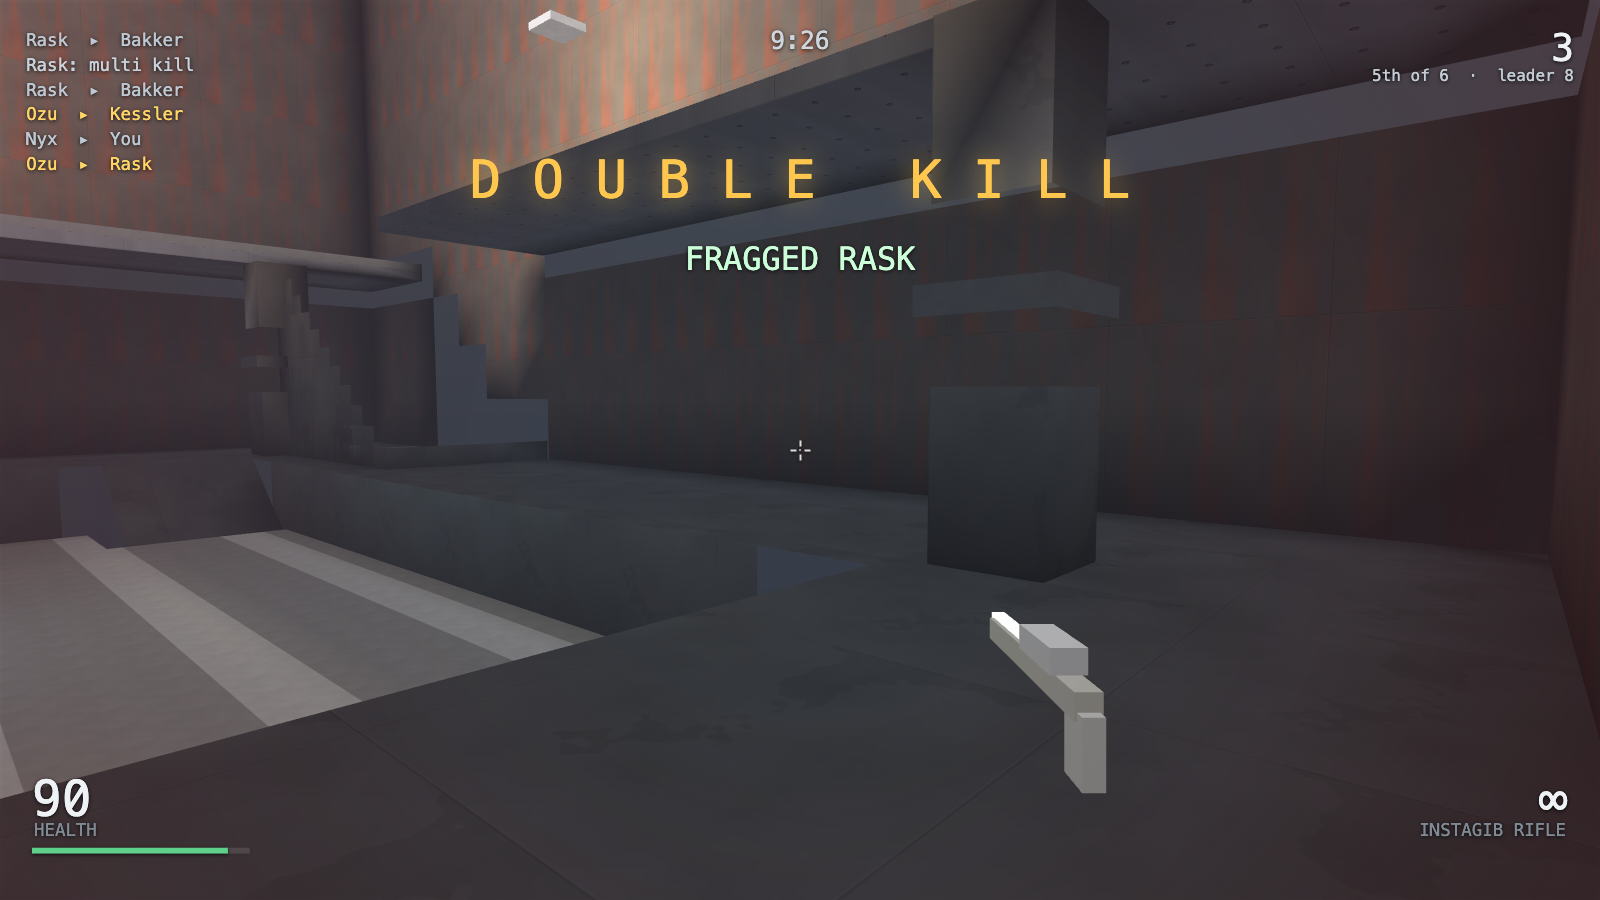
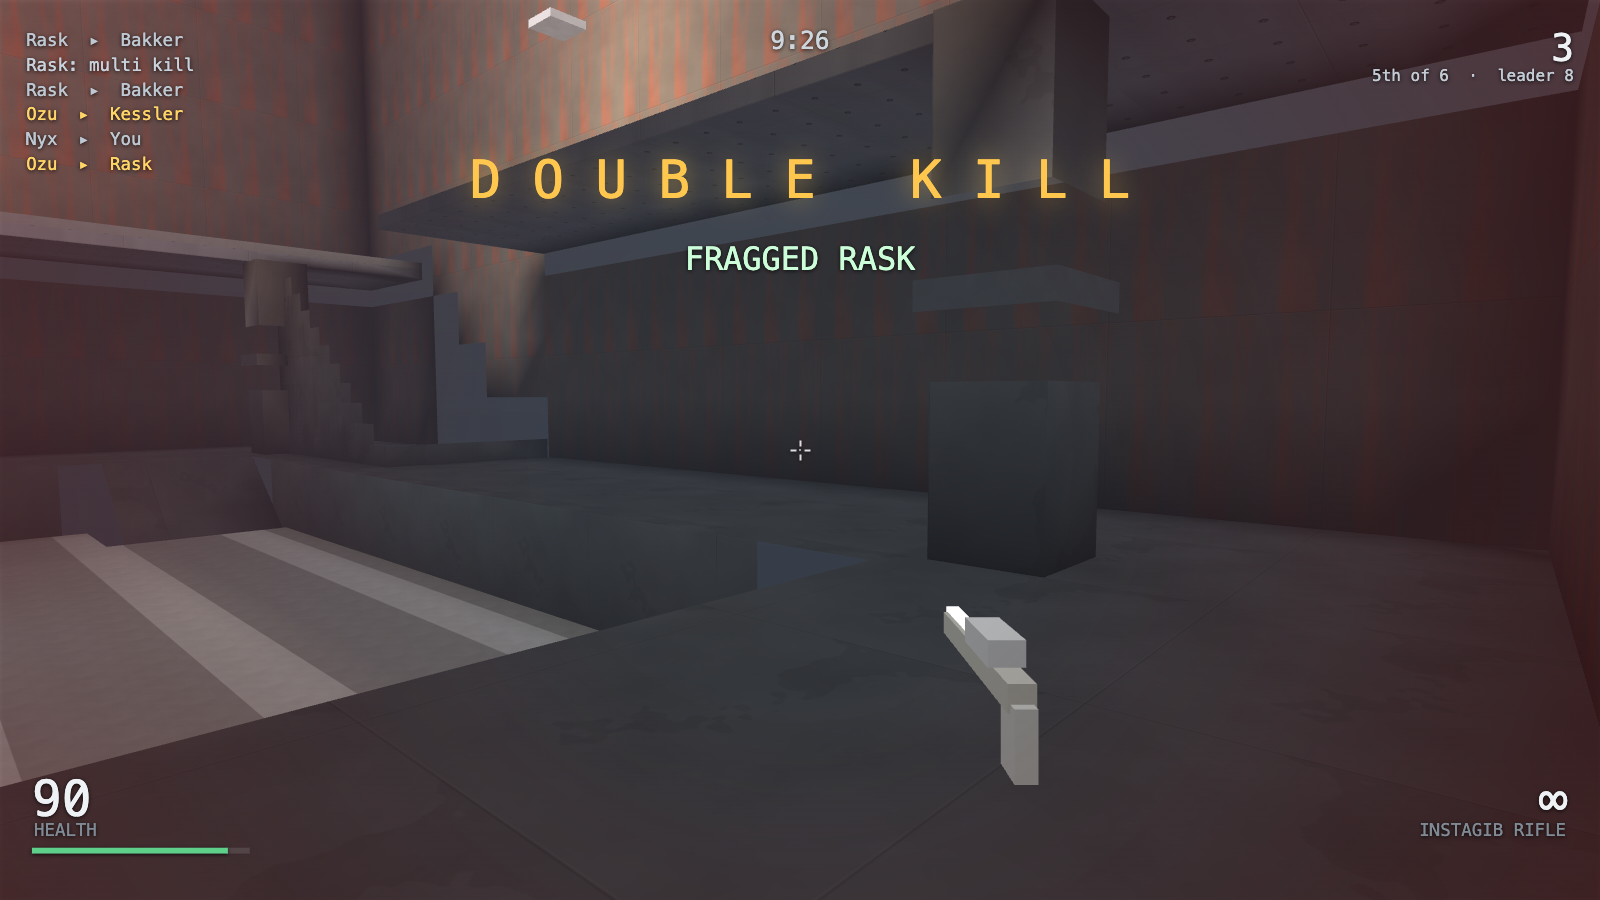
Make the thumb work
Two things were wrong with the look control on a phone, and the first one
was not the sensitivity.

The playing surface had no touch-action, so the first few pixels of every
drag arrived as pointermove and then the browser decided the gesture was
a scroll, took the rest of it and cancelled the pointer. Every swipe was
worth one step of the view and then stopped, which feels precisely like a
control set far too slow. Marking the canvases and the thumb layer
touch-action: none fixes it: a 140 px drag now delivers all of its
movement instead of a seventh of it.

The sensitivity was low as well - a tenth of a degree per pixel, so most
of a phone's width for a quarter turn - and is now 0.38, on the same
setting the mouse uses, so it can be moved either way in the menu.

And both axes are reversed. The thumb holds the scene rather than pushing
a pointer: drag left and the room comes left, which turns you right.
Invert Y still flips the vertical half back.

tools/keytest.js drags a real thumb across a real browser and checks
which way the view went and how far, which is the only way to see either
of these from the outside. Its forward-and-back check now measures the
direction rather than the distance: how far anything gets in eight
hundred milliseconds depends on how fast the browser is drawing.

Claude-Session: https://claude.ai/code/session_01UexxUM9pEdkvdziEXxrMUm

diff --git a/tools/keytest.js b/tools/keytest.js
@@ -8,6 +8,11 @@
 // else here: simtest calls step() with inputs it made up, and netcheck uses a
 // stub for the hands. This is the only test that touches the real chain, and it
 // needs a browser, which is why it is not part of `npm test`.
+//
+// The thumbs get the same treatment. Which way a drag turns the view and how far
+// it turns it are two things you cannot tell from reading the code - the signs
+// pass through three files - and they are the two things somebody holding a
+// phone notices in the first ten seconds.
 
 import { launch, open, sleep } from './browser.js';
 
@@ -50,11 +55,17 @@ async function main() {
     const wentForward = Math.hypot(forward.x - start.x, forward.z - start.z);
     check(`holding forward covers ground (${wentForward.toFixed(1)} m in 0.8 s)`, wentForward > 3);
 
+    // Back is the opposite of forward, and that is what is checked - not how
+    // far it got. How far anything gets in eight hundred milliseconds depends on
+    // how fast the browser is drawing, and under a software renderer that is not
+    // a number worth asserting on.
     await hold('s', 800);
     const back = await probe();
-    const returned = Math.hypot(back.x - start.x, back.z - start.z);
-    check(`and holding back brings you home (${returned.toFixed(1)} m from where you began)`,
-      returned < wentForward * 0.6);
+    const wentBack = Math.hypot(back.x - forward.x, back.z - forward.z);
+    const along = ((forward.x - start.x) * (back.x - forward.x)
+      + (forward.z - start.z) * (back.z - forward.z)) / Math.max(0.01, wentForward * wentBack);
+    check(`and holding back goes the other way (${(Math.acos(Math.max(-1, Math.min(1, along))) * 57.3).toFixed(0)} deg from the way out)`,
+      along < -0.8);
 
     // Sideways, which had better be sideways: the strafe buttons have been the
     // wrong way round in this game once already, and nothing else would notice.
@@ -84,6 +95,7 @@ async function main() {
     await sleep(200);
     const armed = await probe();
     check(`pressing 3 puts the rockets in your hands (weapon ${armed.weapon})`, armed.weapon === 2);
+    await touchCheck(page);
   } finally {
     await page.close();
     chrome.kill();
@@ -94,6 +106,75 @@ async function main() {
     process.exit(1);
   }
   console.log('\nThe keyboard reaches the simulation.');
+}
+
+/**
+ * A thumb on the right half of the screen, dragged.
+ *
+ * Dispatched as real touch events through the browser, so it goes through the
+ * same pointer handlers a phone does. What it is checking is direction and
+ * amount: pulling the scene left turns you right, pulling it down looks up, and
+ * a two centimetre swipe is worth something like a quarter turn.
+ */
+async function touchCheck(page) {
+  await page.send('Emulation.setTouchEmulationEnabled', { enabled: true, maxTouchPoints: 5 });
+  await page.evaluate("window.__touchOn = true; location.search;");
+  // The thumbs are only attached when the game thinks it is on a phone, so the
+  // page is reloaded with the override that says so.
+  await page.send('Page.navigate', {
+    url: `${base}&touch=1`,
+  });
+  if (!await page.ready()) {
+    console.log('   ✗ the page did not come back with the thumbs on');
+    failures++;
+    return;
+  }
+  const size = await page.evaluate('({ w: window.innerWidth, h: window.innerHeight })');
+  const x = size.w * 0.75;
+  const y = size.h * 0.5;
+
+  const drag = async (dx, dy) => {
+    const point = (px, py) => [{ x: px, y: py, radiusX: 8, radiusY: 8, force: 1, id: 1 }];
+    await page.send('Input.dispatchTouchEvent', { type: 'touchStart', touchPoints: point(x, y) });
+    // Slowly, one step per frame or so. A drag dispatched faster than the
+    // browser turns touches into pointer events is a drag that arrives as one
+    // move, and then this measures the sensitivity of a single step.
+    for (let i = 1; i <= 8; i++) {
+      await page.send('Input.dispatchTouchEvent', {
+        type: 'touchMove', touchPoints: point(x + (dx * i) / 8, y + (dy * i) / 8),
+      });
+      await sleep(40);
+    }
+    await page.send('Input.dispatchTouchEvent', { type: 'touchEnd', touchPoints: [] });
+    await sleep(250);
+  };
+
+  const look = async () => page.evaluate(
+    '({ yaw: window.__state.bodies[0].yaw, pitch: window.__state.bodies[0].pitch })');
+  const degrees = (units) => {
+    let d = ((units % 65536) + 65536) % 65536;
+    if (d > 32768) d -= 65536;
+    return (d / 65536) * 360;
+  };
+
+  const before = await look();
+  await drag(140, 0);
+  const afterYaw = await look();
+  const turned = degrees(afterYaw.yaw - before.yaw);
+  // Yaw counts the other way round from the view: turning to the left is yaw
+  // going up. A drag to the right is meant to pull the room right and take you
+  // left with it.
+  // Both halves of this matter. The sign is the convention; the size is whether
+  // the browser let the whole swipe through, and it did not until the playing
+  // surface was given touch-action: none.
+  check(`dragging the thumb right turns the view left (${turned.toFixed(0)} deg over 140 px)`,
+    turned > 35 && turned < 75);
+
+  await drag(0, 90);
+  const afterPitch = await look();
+  const lifted = degrees(afterPitch.pitch - afterYaw.pitch);
+  check(`dragging the thumb down looks up (${lifted.toFixed(0)} deg over 90 px)`,
+    lifted > 22 && lifted < 48);
 }
 
 main().catch((err) => {

diff --git a/src/touch.js b/src/touch.js
@@ -8,9 +8,16 @@
  * is.
  *
  * The look is the hard part. A stick would be miserable, so dragging the right
- * side turns the view directly, at the same units per centimetre a mouse gets,
- * and a short tap in that half fires: on a phone the thing you most want after
- * pointing at somebody is to shoot them, and reaching for a button loses the aim.
+ * side turns the view directly, and a short tap in that half fires: on a phone
+ * the thing you most want after pointing at somebody is to shoot them, and
+ * reaching for a button loses the aim.
+ *
+ * Which way the drag goes is not the same question as it is for a mouse. A mouse
+ * is a pointer and you push the view with it; a thumb on glass is holding the
+ * scene, so pulling it to the left brings the room to the left, which turns you
+ * right. Both conventions have their people - `Invert Y` in the menu flips the
+ * vertical half back - but this is the one that survived being played on a
+ * phone.
  */
 
 import { BTN, PITCH_LIMIT, YAW_UNITS } from './constants.js';
@@ -30,7 +37,6 @@ export class Touch {
     this.lookMoved = 0;
     this.tapFire = 0;
     this.buttons = new Set();
-    this.sensitivity = 1;
 
     this.stick = root.querySelector('#stick');
     this.knob = root.querySelector('#knob');
@@ -119,8 +125,8 @@ export class Touch {
       const dy = e.clientY - this.lookAt.y;
       this.lookAt = { x: e.clientX, y: e.clientY };
       this.lookMoved += Math.abs(dx) + Math.abs(dy);
-      this.dyaw = (this.dyaw || 0) - dx;
-      this.dpitch = (this.dpitch || 0) - dy;
+      this.dyaw = (this.dyaw || 0) + dx;
+      this.dpitch = (this.dpitch || 0) + dy;
       e.preventDefault();
     }
   }
@@ -156,13 +162,20 @@ export class Touch {
       }
     }
 
-    const k = this.sensitivity * (YAW_UNITS / 360) * 0.10;
+    // Degrees of view per pixel of thumb, at sensitivity 1. A tenth of a degree
+    // was the first guess and it is a tenth of a degree: it takes a swipe and a
+    // half across the whole right side of a phone to turn ninety degrees, and by
+    // then whoever you were turning towards has shot you. This is a swipe of
+    // about two centimetres for the same ninety, and the same slider in the menu
+    // moves it either way.
+    const k = input.settings.sensitivity * (YAW_UNITS / 360) * 0.38;
     if (this.dyaw) {
       input.yaw = wrapYaw(input.yaw + this.dyaw * k);
       this.dyaw = 0;
     }
     if (this.dpitch) {
-      input.pitch = Math.max(-PITCH_LIMIT, Math.min(PITCH_LIMIT, input.pitch + this.dpitch * k));
+      const dy = this.dpitch * (input.settings.invert ? -1 : 1);
+      input.pitch = Math.max(-PITCH_LIMIT, Math.min(PITCH_LIMIT, input.pitch + dy * k));
       this.dpitch = 0;
     }
 

diff --git a/styles.css b/styles.css
@@ -41,6 +41,17 @@ html, body {
   display: block;
 }
 
+/* Nothing on the playing surface is a gesture the browser gets to interpret.
+   Without this the first few pixels of a thumb drag arrive as pointermove and
+   then the browser decides it is a pan, sends pointercancel and keeps the rest -
+   which feels exactly like a very slow look control, because every swipe is
+   worth one step of it and then stops. preventDefault() on the move does not
+   help: touch-action is the only thing the compositor reads. */
+#app, #screen, #hud, #touch, #touchButtons, #stick {
+  touch-action: none;
+  -webkit-touch-callout: none;
+}
+
 #screen { background: #07080a; cursor: none; }
 #hud { pointer-events: none; }
 body.menu #screen { cursor: default; }

diff --git a/index.html b/index.html
@@ -105,7 +105,7 @@
             <div class="btns" id="presetButtons"></div>
           </div>
           <div class="row">
-            <label>Mouse</label>
+            <label>Look</label>
             <div class="btns">
               <button data-sens="0.5">Slow</button>
               <button data-sens="1" class="active">Normal</button>
@@ -113,6 +113,10 @@
               <button data-sens="3">Very fast</button>
             </div>
           </div>
+          <p class="fineprint">
+            The same setting for the mouse and for the thumb on the right of a
+            phone screen.
+          </p>
           <div class="row">
             <label>Invert Y</label>
             <div class="btns">

diff --git a/README.md b/README.md
@@ -187,6 +187,19 @@ tap in it fires — because on a phone the thing you most want after pointing at
 somebody is to shoot them, and reaching for a button loses the aim. `FIRE`,
 `JUMP` and `WPN` are along the bottom right where a thumb already is.
 
+The thumb holds the scene rather than pushing a pointer: drag left and the room
+comes left, which turns you right. `Look` in the menu sets how far a swipe goes,
+for the mouse and the thumb alike, and `Invert Y` flips the vertical half back
+for anybody who wants it the other way.
+
+The playing surface is marked `touch-action: none`, which is not a detail. Left
+off, the first few pixels of every drag arrive and then the browser decides the
+gesture is a scroll, keeps the rest of it and cancels the pointer — which feels
+exactly like a look control set far too slow, because every swipe is worth one
+step of it and then stops. `npm run test:keys` drags a real thumb across a real
+browser and checks both which way the view went and how far, which is the only
+way to catch that from the outside.
+
 ## Four people, one match, no server that decides anything
 
 One of you opens a room and reads out the four-letter code; the rest join it.
